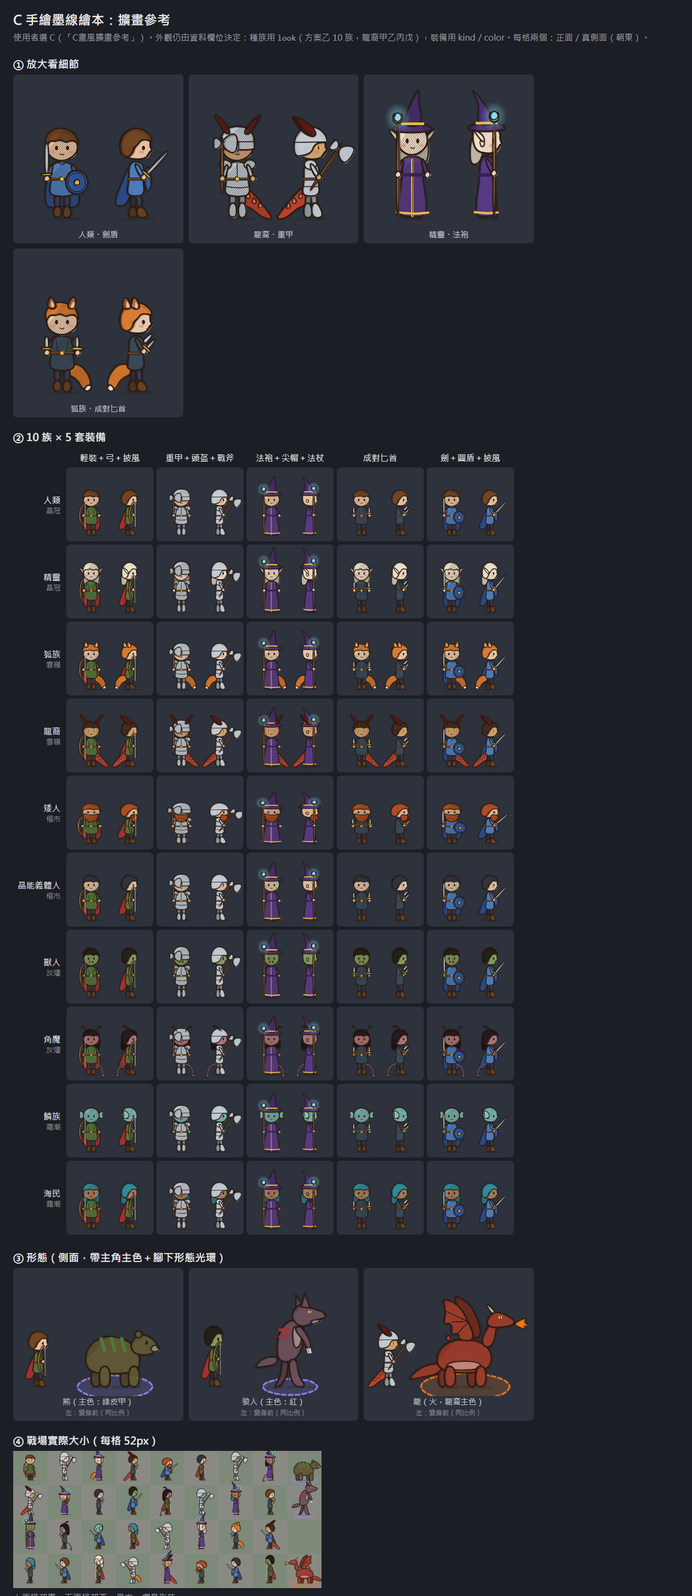
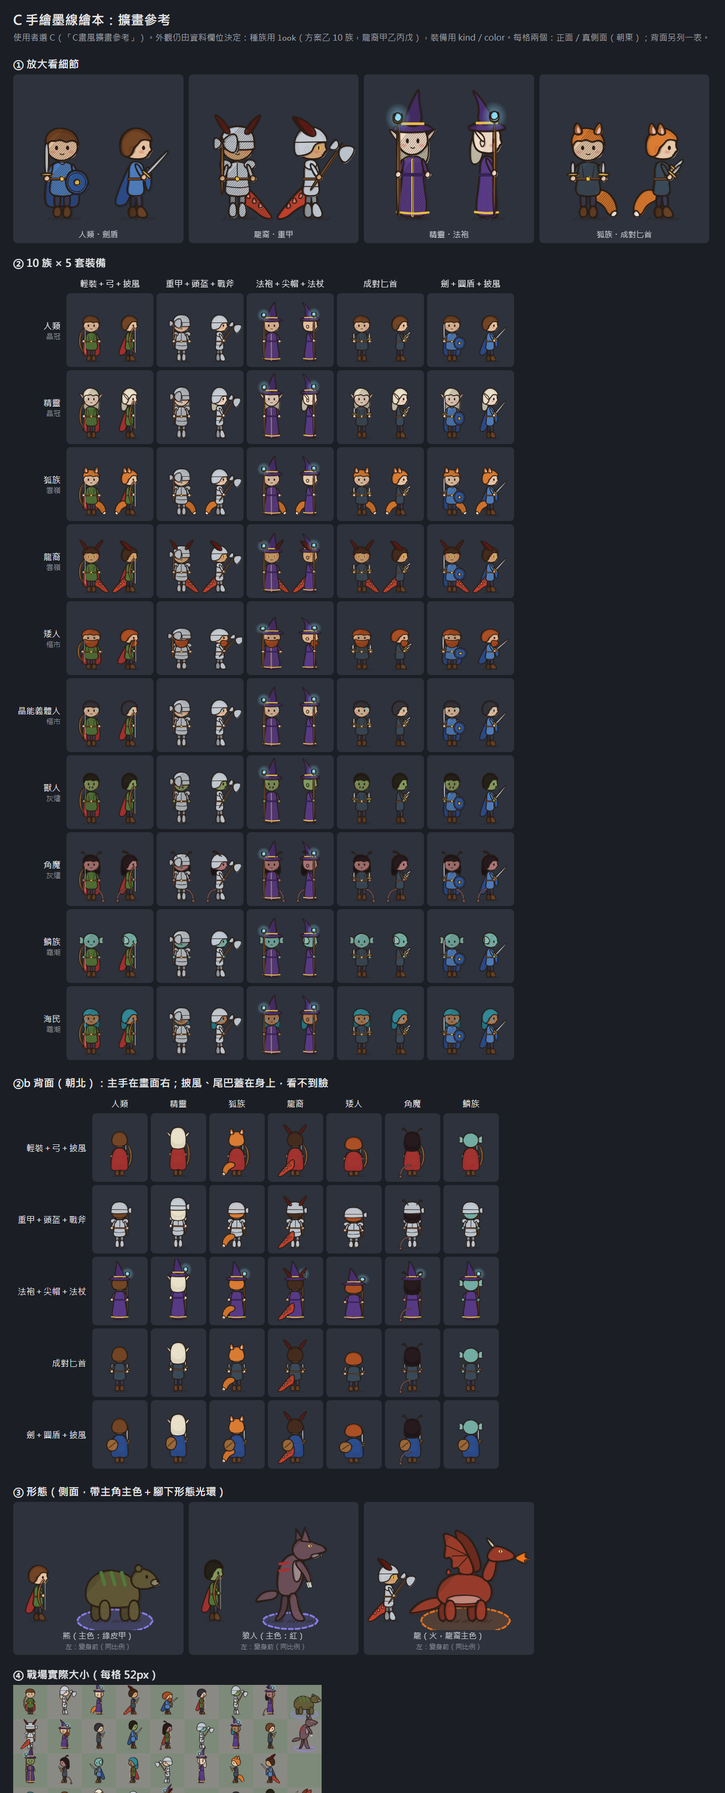
docs(art): style C port requirements and checklist; add back view to samples

diff --git a/docs/art/sample/storyDoll.js b/docs/art/sample/storyDoll.js
@@ -77,7 +77,7 @@ window.StoryDoll = (() => {
   // 正面：從腰側往畫面右邊伸出；側面：往身後（西）伸出。畫在身體之前（身體會蓋住根部）。
   function tail(ctx, look, view) {
     const k = look.tail; if (!k) return;
-    const s = view === "front" ? 1 : -1;
+    const s = view === "side" ? -1 : 1;
     const P = (pts) => pts.map(([x, y]) => [x * s, y]);
     if (k === "fox") {
       const c = look.tailColor ?? look.hairColor ?? "#d8762a";
@@ -105,7 +105,7 @@ window.StoryDoll = (() => {
     const { look, gear } = unit, pants = look.pants ?? "#3c3c52", boot = colorOf(gear.feet, "#6a4224");
     const heavy = gear.body?.kind === "plate";
     const greave = heavy ? MAT.steel : boot;
-    if (view === "front") {
+    if (view !== "side") {
       for (const sx of [-1, 1]) {
         ink(ctx, `leg-${sx}`, [[sx * 0.8, -15], [sx * 4.6, -15], [sx * 4.4, -6], [sx * 1, -6]], heavy ? MAT.iron : pants);
         ink(ctx, `boot-${sx}`, [[sx * 0.6, heavy ? -9 : -7], [sx * 4.8, heavy ? -9 : -7], [sx * 5.6, -0.8], [sx * 0.4, -0.4]], greave);
@@ -125,13 +125,15 @@ window.StoryDoll = (() => {
     front: [[-7, -33], [7, -33], [6, -23], [10, -1.6], [0, -0.6], [-10, -1.6], [-6, -23]],
     side: [[-4, -33], [3.4, -33], [5, -27], [4, -22], [7.4, -1.6], [-1, -0.8], [-7.6, -1.6], [-4.2, -22]],
   };
+  TORSO.back = TORSO.front; ROBE.back = ROBE.front;
   function body(ctx, unit, view) {
-    const it = unit.gear.body, kind = it?.kind ?? "shirt", F = view === "front";
+    const it = unit.gear.body, kind = it?.kind ?? "shirt", F = view !== "side", BK = view === "back";
     const c = colorOf(it, "#4f7fbf");
     if (kind === "robe") {
       ink(ctx, `robe-${view}`, ROBE[view], c);
       const trim = it.trim ?? MAT.gold;
-      if (F) {
+      if (BK) stroke(ctx, "robe-hem-b", [[-9.6, -3.2], [0, -2.2], [9.6, -3.2]], 1.2, trim);
+      else if (F) {
         stroke(ctx, "robe-mid", [[0, -31], [0, -1.4]], 1.4, trim); stroke(ctx, "robe-mid2", [[0, -31], [0, -1.4]], 0.4);
         stroke(ctx, "robe-hem", [[-9.6, -3.2], [0, -2.2], [9.6, -3.2]], 1.2, trim);
       } else {
@@ -142,8 +144,8 @@ window.StoryDoll = (() => {
     }
     ink(ctx, `torso-${view}`, TORSO[view], kind === "plate" ? MAT.steel : kind === "mail" ? MAT.iron : c);
     if (kind === "leather") {
-      stroke(ctx, `stitch-${view}`, F ? [[-3.6, -31], [-2.4, -24]] : [[0.6, -31], [1.6, -24]], 0.4);
-      if (F) stroke(ctx, "stitch2", [[3.6, -31], [2.4, -24]], 0.4);
+      if (!BK) stroke(ctx, `stitch-${view}`, F ? [[-3.6, -31], [-2.4, -24]] : [[0.6, -31], [1.6, -24]], 0.4);
+      if (F && !BK) stroke(ctx, "stitch2", [[3.6, -31], [2.4, -24]], 0.4);
     }
     if (kind === "plate") {
       if (F) {
@@ -154,17 +156,17 @@ window.StoryDoll = (() => {
         ink(ctx, "pauldron-s", ellPts(-0.4, -31.4, 3.8, 2.9, 12), MAT.steel, { w: 0.7 });
       }
     }
-    if (kind === "shirt" && F) stroke(ctx, "collar", [[-2.4, -33], [0, -30.4], [2.4, -33]], 0.5);
+    if (kind === "shirt" && F && !BK) stroke(ctx, "collar", [[-2.4, -33], [0, -30.4], [2.4, -33]], 0.5);
     // 腰帶
     const bx = F ? 6.2 : 4.3;
     stroke(ctx, `belt-${view}`, [[F ? -bx : -4.2, -23], [bx, -23]], 1.7, INK);
     stroke(ctx, `belt2-${view}`, [[F ? -bx : -4.2, -23], [bx, -23]], 0.9, "#6b4426");
-    if (F) { ctx.fillStyle = MAT.gold; ctx.fillRect(-1.2, -24.3, 2.4, 2.6); stroke(ctx, "buckle", [[-1.2, -24.3], [1.2, -24.3], [1.2, -21.7], [-1.2, -21.7], [-1.2, -24.3]], 0.4); }
+    if (F && !BK) { ctx.fillStyle = MAT.gold; ctx.fillRect(-1.2, -24.3, 2.4, 2.6); stroke(ctx, "buckle", [[-1.2, -24.3], [1.2, -24.3], [1.2, -21.7], [-1.2, -21.7], [-1.2, -24.3]], 0.4); }
   }
   function cloak(ctx, unit, view) {
     const it = unit.gear.cloak; if (!it) return;
     const c = colorOf(it, "#a83030");
-    if (view === "front") ink(ctx, "cloak-f", [[-8, -33], [8, -33], [11, -8], [5, -6], [0, -7.5], [-5, -6], [-11, -8]], c);
+    if (view !== "side") ink(ctx, `cloak-${view}`, [[-8, -33], [8, -33], [11, -8], [5, -6], [0, -7.5], [-5, -6], [-11, -8]], c);
     else ink(ctx, "cloak-s", [[-3, -33], [1, -33], [-4, -9], [-10, -6.5], [-13, -9], [-8, -22]], c);
   }
 
@@ -172,7 +174,7 @@ window.StoryDoll = (() => {
   // 主手：正面在畫面左手 (-9,-23.2)；側面在近側手 (4.6,-24)。
   function weapon(ctx, it, key, view, hand) {
     if (!it) return;
-    const [hx, hy] = hand, F = view === "front";
+    const [hx, hy] = hand, F = view !== "side";
     const metal = colorOf(it.material === "wood" ? null : it, MAT.steel);
     ctx.save(); ctx.translate(hx, hy);
     // 正面武器豎起；側面往前上斜（劍、斧、匕首）或直立（法杖、弓）
@@ -228,8 +230,8 @@ window.StoryDoll = (() => {
       if (behind) return;
       ctx.save(); ctx.scale(-1, 1); weapon(ctx, it, "off", view, [-9, -23.2]); ctx.restore();
     } else if (behind) {
-      weapon(ctx, it, "off-s", view, [2.6, -27]);
-      dot(ctx, 2.6, -27, 1.7, 1.7, dark(SKIN_LINE({}), 0.2));
+      weapon(ctx, it, "off-s", view, [5.6, -27]);
+      dot(ctx, 5.6, -27, 1.7, 1.7, dark(SKIN_LINE({}), 0.2));
     }
   }
 
@@ -243,7 +245,7 @@ window.StoryDoll = (() => {
   }
   function ears(ctx, look, view, stage) {
     const k = look.ears; if (!k) return;
-    const c = look.skin ?? "#eab48a", F = view === "front";
+    const c = look.skin ?? "#eab48a", F = view !== "side";
     if (k === "pointed" && stage === "under") {
       if (F) for (const sx of [-1, 1]) ink(ctx, `ear-p-${sx}`, [[sx * 8, -44], [sx * 15.6, -48.6], [sx * 9, -39.6]], c, { w: 0.7 });
     }
@@ -296,7 +298,7 @@ window.StoryDoll = (() => {
   }
   function horns(ctx, look, view) {
     const k = look.horns; if (!k) return;
-    const c = look.hornColor ?? "#e8d8b8", F = view === "front";
+    const c = look.hornColor ?? "#e8d8b8", F = view !== "side";
     const one = (key, s, far) => {
       const P = (pts) => pts.map(([x, y]) => [x * s, y]);
       const col = far ? dark(c, 0.25) : c;
@@ -311,19 +313,20 @@ window.StoryDoll = (() => {
   const COVERS = { helmet: { top: true, side: true }, hood: { top: true, side: true }, wizard_hat: { top: true } };
   function headgear(ctx, it, view) {
     if (!it) return;
-    const F = view === "front", c = colorOf(it, "#7a5a3a");
+    const F = view !== "side", BK = view === "back", c = colorOf(it, "#7a5a3a");
     if (it.kind === "helmet") {
       const m = colorOf(it, MAT.steel);
       if (F) {
         ink(ctx, "helm", [[-10, -42], [-9.6, -49], [-4.6, -53.6], [4.6, -53.6], [9.6, -49], [10, -42], [10.4, -40], [-10.4, -40]], m);
         stroke(ctx, "helm-band", [[-10, -44.6], [10, -44.6]], 0.6);
-        ink(ctx, "helm-nose", [[-0.9, -45], [0.9, -45], [0.7, -38.6], [-0.7, -38.6]], m, { shade: false, w: 0.5 });
+        if (!BK) ink(ctx, "helm-nose", [[-0.9, -45], [0.9, -45], [0.7, -38.6], [-0.7, -38.6]], m, { shade: false, w: 0.5 });
       } else {
         ink(ctx, "helm-s", [[-9.8, -36], [-10, -47], [-4.6, -53.6], [3.6, -53.4], [8.8, -48.6], [9.6, -44], [6, -44.4], [2, -43], [0.4, -38.6], [-4, -36.4]], m);
         stroke(ctx, "helm-band-s", [[-9.8, -44.4], [9.4, -44.6]], 0.6);
       }
     } else if (it.kind === "hood") {
-      if (F) ink(ctx, "hood", [[-11, -36], [-11.4, -48], [-5, -55], [5, -55], [11.4, -48], [11, -36], [7.6, -36.6], [8.4, -45], [0, -48], [-8.4, -45], [-7.6, -36.6]], c);
+      if (BK) ink(ctx, "hood-b", [[-11, -36], [-11.4, -48], [-5, -55], [5, -55], [11.4, -48], [11, -36], [6, -33], [-6, -33]], c);
+      else if (F) ink(ctx, "hood", [[-11, -36], [-11.4, -48], [-5, -55], [5, -55], [11.4, -48], [11, -36], [7.6, -36.6], [8.4, -45], [0, -48], [-8.4, -45], [-7.6, -36.6]], c);
       else ink(ctx, "hood-s", [[-11, -33], [-11.4, -46], [-5, -55], [4, -54.4], [9.6, -48.6], [9.4, -45], [4, -46.6], [0.6, -42], [-1.6, -36], [-6, -33.4]], c);
     } else if (it.kind === "wizard_hat") {
       if (F) {
@@ -344,8 +347,37 @@ window.StoryDoll = (() => {
     ink(ctx, `arm-${sx}`, sx < 0 ? [[-7, -31.5], [-4.8, -31], [-7.4, -22.5], [-9.8, -23.5]] : [[7, -31.5], [4.8, -31], [7.4, -22.5], [9.8, -23.5]], c);
   }
   function hand(ctx, look, x, y, key) { ink(ctx, key, ellPts(x, y, 1.8, 1.8, 10), look.skin ?? "#eab48a", { shade: false, w: 0.6 }); }
+  // 背面（朝北）：左右對調（主手在畫面右），看不到臉；披風、尾巴蓋在身體上，武器在身體後面
+  function drawBack(ctx, unit) {
+    const look = unit.look ?? {}, gear = unit.gear ?? {}, V = "back";
+    const cover = COVERS[gear.head?.kind] ?? (gear.head ? { top: true } : {});
+    ctx.scale(-1, 1);
+    weapon(ctx, gear.main_hand, "main-b", V, [-9, -23.2]);
+    const off = gear.off_hand, shield = off && off.kind.startsWith("shield");
+    if (off && !shield) { ctx.save(); ctx.scale(-1, 1); weapon(ctx, off, "off-b", V, [-9, -23.2]); ctx.restore(); }
+    legs(ctx, unit, V);
+    body(ctx, unit, V);
+    armFront(ctx, unit, -1); armFront(ctx, unit, 1);
+    hand(ctx, look, -9, -23.2, "hand-bl"); hand(ctx, look, 9, -23.2, "hand-br");
+    cloak(ctx, unit, V);
+    tail(ctx, look, V);
+    if (shield) {
+      ink(ctx, "shield-b", ellPts(8.6, -21, 6.6, 7, 20), MAT.wood, { w: 1 });
+      stroke(ctx, "shield-strap", [[5, -24], [12.2, -18]], 1.2, "#5a3a1e");
+    }
+    if (!cover.side) ears(ctx, look, V, "under");
+    ink(ctx, "head-b", ellPts(0, -42, 9.2, 8.6), look.skin ?? "#eab48a", { w: 1 });
+    if (look.hair && look.hair !== "none") { // 背面：帽子只蓋頭頂，後腦頭髮照畫
+      const c = look.hairColor ?? "#6a3a1e";
+      ink(ctx, "hair-b", look.hair === "long" ? [[-9.8, -44], [-6, -51.8], [6, -51.8], [9.8, -44], [9.6, -30], [0, -28.6], [-9.6, -30]] : [[-9.6, -42], [-6, -51.8], [6, -51.8], [9.6, -42], [8, -36], [0, -34.4], [-8, -36]], c);
+    }
+    if (!cover.top) ears(ctx, look, V, "top");
+    headgear(ctx, gear.head, V);
+    horns(ctx, look, V);
+  }
   function draw(ctx, unit, view) {
     const look = unit.look ?? {}, gear = unit.gear ?? {}, F = view === "front";
+    if (view === "back") { SHADE = -1; ctx.save(); if (look.build === "stout") ctx.scale(1.12, 0.88); else if (look.build === "tall") ctx.scale(0.96, 1.1); shadow(ctx); drawBack(ctx, unit); ctx.restore(); return; }
     SHADE = F ? 1 : -1;
     ctx.save();
     if (look.build === "stout") ctx.scale(1.12, 0.88); else if (look.build === "tall") ctx.scale(0.96, 1.1);

diff --git a/docs/art/sample/story.html b/docs/art/sample/story.html
@@ -20,13 +20,16 @@
 </head>
 <body>
 <h1>C 手繪墨線繪本：擴畫參考</h1>
-<div class="sub">使用者選 C（「C畫風擴畫參考」）。外觀仍由資料欄位決定：種族用 <code>look</code>（方案乙 10 族，龍裔甲乙丙戊），裝備用 kind／color。每格兩個：正面／真側面（朝東）。</div>
+<div class="sub">使用者選 C（「C畫風擴畫參考」）。外觀仍由資料欄位決定：種族用 <code>look</code>（方案乙 10 族，龍裔甲乙丙戊），裝備用 kind／color。每格兩個：正面／真側面（朝東）；背面另列一表。</div>
 
 <h2>① 放大看細節</h2>
 <div class="row" id="big"></div>
 
 <h2>② 10 族 × 5 套裝備</h2>
 <table id="grid"></table>
+
+<h2>②b 背面（朝北）：主手在畫面右；披風、尾巴蓋在身上，看不到臉</h2>
+<table id="back"></table>
 
 <h2>③ 形態（側面，帶主角主色＋腳下形態光環）</h2>
 <div class="row" id="forms"></div>
@@ -88,6 +91,15 @@ RACES.forEach(([zh, realm, lk]) => {
   }
   grid.append(tr);
 });
+// ②b 背面
+const back = document.getElementById("back"), BACK_RACES = [0, 1, 2, 3, 4, 7, 8];
+back.insertAdjacentHTML("beforeend", `<tr><th></th>${BACK_RACES.map((i) => `<th>${RACES[i][0]}</th>`).join("")}</tr>`);
+SETS.forEach(([t, g]) => {
+  const tr = document.createElement("tr");
+  tr.insertAdjacentHTML("beforeend", `<td class="lab">${t}</td>`);
+  for (const ri of BACK_RACES) { const td = document.createElement("td"); const [c, ctx] = cv(80, 100); SD.stamp(ctx, { look: look(ri), gear: g }, "back", 40, 93, 1.3); td.append(c); tr.append(td); }
+  back.append(tr);
+});
 // ③ 形態
 const forms = document.getElementById("forms");
 const FORM_SHOW = [["bear", { hero: "#4f7a3a", auraColor: "#9a86ff", auraR: 22 }, "熊（主色：綠皮甲）", 0, 0],
@@ -106,7 +118,7 @@ const [fc, fctx] = cv(T * COLS, T * ROWS, null);
 for (let y = 0; y < ROWS; y++) for (let x = 0; x < COLS; x++) { fctx.fillStyle = (x + y) % 2 ? "#8a8a84" : "#7d8a7a"; fctx.fillRect(x * T, y * T, T, T); }
 for (let y = 0; y < ROWS; y++) for (let x = 0; x < COLS - 1; x++) {
   const ri = (x + y * 3) % RACES.length, si = (x + y) % SETS.length, west = y >= 2;
-  const view = x === 0 && y % 2 === 0 ? "front" : "side";
+  const view = x === 0 ? (y % 2 ? "back" : "front") : "side";
   SD.stamp(fctx, { look: look(ri), gear: gear(si) }, view, x * T + T / 2, y * T + T * 0.86, 0.74, view === "side" && west);
 }
 FORM_SHOW.slice(0, 3).forEach(([id, spec], i) => SD.stampForm(fctx, id, spec, (COLS - 1) * T + T / 2, i * T + T * 0.86 + (i === 2 ? T : 0), id === "dragon" ? 0.82 : 0.95, i === 2));

diff --git a/docs/art/C畫風移植需求.md b/docs/art/C畫風移植需求.md
@@ -1,0 +1,108 @@
+# C 手繪墨線繪本：移植需求與檢查清單（美術 PM，2026-10-29，交開發 PM）
+
+> 使用者：「幫我問美術 紙娃娃能不能改畫風格 不是小改是大改 先給我幾張樣本」→ 選 C：「C畫風擴畫參考」→ 看過擴畫：「好就這樣」。
+> 樣張：`story.png`（頁面 `sample/story.html`）；**畫法以 `sample/storyDoll.js` 為準**（實作時對照它的座標與圖層順序）。比較與評估見 `紙娃娃畫風大改.md`。
+
+## 0. 原則：換畫法，不換規則
+
+- 規則全部不動：`look` 欄位（含 3R 種族欄位）、裝備 `kind／material／color／element／rarity`、頭部裝備 `covers`、主手／副手左右（`handSides`）、真側面轉身（`SideHooks`）、形態規則（`形態外觀.md` 定稿方向）、材質色票、元素混色比例。**不認得的值一律退回預設，不得出錯**。
+- 要換的只有「把欄位畫出來」的程式：`client/src/render/paperdoll*.ts`、`dollGear.ts`、形態（3J-5），以及第 6 節的召喚物（待定）。
+- 只看規則的測試照舊要過；比對像素或顏色的測試照新畫法更新。
+- **不受影響**：技能圖示、裝備圖示、狀態圖示、戰場效果、地形、物件、雲嶺換皮、字型。
+
+## 1. 共用畫法層（新檔，例如 `render/inkStyle.ts`）
+
+照 `storyDoll.js` 開頭的「畫法層」：
+
+| 函式 | 做什麼 |
+|---|---|
+| `ink(ctx, key, pts, color, opt)` | ① 水彩填色：往右下偏 (0.45, 0.35)、透明度 0.94、邊緣再描一圈 35% 深色 ② 暗面斜排線（裁在形狀內，線寬 0.35、間距 1.3、42% 墨色）③ 墨線描兩次（線寬 w＝0.85 與 0.45w，抖動 0.5／0.85）。`opt`：`w`、`shade:false`（不排線）、`line:false`、`sharp`（尖角形狀不圓滑化）、`alpha` |
+| `stroke(ctx, key, pts, w, color)` | 開放的抖動線（腰帶、縫線、嘴、骨架線） |
+| `ellPts`、`wobble`、`smooth` | 橢圓取點、抖動、用中點二次曲線圓滑化 |
+
+- **確定性**：抖動的亂數種子＝部件名稱字串的 FNV-1a 雜湊（`seedOf(key)`），再用 LCG。**不准用 `Math.random()`**，否則每次重畫線都會跳。同一部件在不同方向用不同 key（例如 `leg-1`、`leg-far`）。
+- **暗面方向**：正面在右（光從左上）；側面、背面在左。
+- 墨色 `#2b1e16`。**拿掉現在的黑色剪影外框**（8 方向偏移的深色剪影），墨線取代它。頭目外光照舊，是唯一的身體外光。
+- **一定要快取成貼圖**：一隻小人要描很多次線又要裁切排線，每幀重畫太貴。現有 `renderFigureCanvas` 的快取鍵（spec＋facing＋downed）沿用。
+- 地面影子改成一排短斜線（`shadow()`），不是深色橢圓。
+
+## 2. 紙娃娃骨架與四方向
+
+座標（腳底 (0,0)，往上是 −y）：頭 (0,−42) 半徑 9.2×8.6；身體 −33～−12.5；腿 −15～0；手在 (±9,−23.2)。頭頂最高到約 −70（尖帽），畫布高度要留夠（現在的 `DOLL_H` 64 不夠）。**戰場縮放**：52px 格用約 0.74 倍，人約 40px 高，和現在一樣。
+
+| 方向 | 圖層順序（下 → 上） | 重點 |
+|---|---|---|
+| 正面（南） | 影子 → 披風 → 尾巴 → 長髮後片 → 腿 → 身體 → 副手臂＋副手 → 耳（側耳）→ 頭 → 臉 → 頭髮 → 耳（獸耳）→ 頭部裝備 → 角 → 主手臂＋武器＋手 | 主手在畫面左 |
+| 側面（東） | 影子 → 披風 → 尾巴（往西）→ 長髮後片 → 遠側手武器 → 遠腿 → 近腿 → 身體 → 盾（側看一條邊）→ 頭（側臉）→ 耳點 → 臉 → 頭髮 → 耳 → 頭部裝備 → 角（遠側暗 25%，近側往前 2.2）→ 近側手臂＋武器＋手 | 西＝左右鏡像 |
+| 背面（北） | 先左右對調（主手到畫面右）→ 影子 → 武器（在身體後）→ 腿 → 身體 → 兩手 → 披風 → 尾巴（蓋在披風上）→ 盾背面（木色＋皮帶）→ 側耳 → 頭 → 後腦頭髮（**戴帽也畫**，帽子只蓋頭頂）→ 獸耳 → 頭部裝備 → 角 | 看不到臉、扣環、縫線 |
+
+體型：`stout` 整個人 ×(1.12, 0.88)，`tall` ×(0.96, 1.1)（四方向都要）。倒地姿勢照現行做法旋轉。
+
+## 3. 9 格裝備
+
+樣張畫了：身體 `shirt`／`leather`／`plate`／`robe`、頭 `helmet`／`hood`／`wizard_hat`、腳 `boots`／`greaves`、披風、圓盾。
+其他 kind（`mail`、各種外套、`greathelm`、`horned_helm`、`cap`、`bandana`、`crown`、`wide_hat`、手套、臂甲、塔盾⋯⋯）：**沿用現行造型的輪廓，改用 `ink()` 畫**，細節線（甲片、縫線）改成 `stroke()`。顏色照現行 `itemColors()`。項鍊、戒指照舊不畫。
+
+## 4. 武器（含 #34、魔導劍、成對武器）
+
+- 握點：正面主手 (−9,−23.2) 豎起；側面近側手 (4.6,−24)，劍、斧、匕首往前上斜 0.75 rad，法杖、弓直立。
+- 樣張畫了 `sword`、`dagger`、`axe`、`staff`（杖頭光暈用元素色，預設 `#8fe3ff`）、`bow`；其他 kind（錘、矛、拳套、鐮刀、鞭、手槍、霰彈槍、法球、弩、圖騰杖、魔導劍）：沿用現行造型＋`ink()`，握法不變。
+- **成對武器**：正面副手＝主手武器左右鏡像，在畫面右手；側面副手在遠側手 **(5.6,−27)**，畫在身體後面，比近側手**往前上錯開約 3px**（即 3R-3a 原定的小修，一起做掉）；背面兩把都在身體後面。
+
+## 5. 種族（3R-3a／3R-3b）與形態（3J-5）
+
+**種族**：欄位、10 族資料與龍裔定案版照 `種族與側面移植需求.md` ①。**衝突規則以 `可玩種族評估.md` 第 2 節為準**（例如精靈戴頭盔時尖耳伸出、狐族戴兜帽用有耳朵的兜帽、寬帽遇角要抬高）；樣張為了省事有些組合簡化，不算數。部件位置與形狀照 `storyDoll.js` 的 `tail`、`ears`、`horns`、`face`（鱗片、刺青、晶路、獠牙、鬍子、豎瞳）。
+- 3R-3a：耳、角、尾、膚色、衝突規則＋成對武器錯開（第 4 節）。
+- 3R-3b：體型、臉部紋路、鬍子、獠牙、龍裔部件（大龍角、龍鱗、豎瞳、粗龍尾＋背刺、鱗色）。
+
+**形態 10 種**：規則照 `形態外觀.md` 定稿方向（全部另畫、帶主角主色、比同類召喚物大一號、不認得的 id 退回原角色＋光環）。
+- 樣張畫了熊、狼人、龍（`storyDoll.js` 的 `FORMS`）；其他 7 種（貓、鳥、惡魔、巨人、元素化身、暗影、樹人）**用 `formArt.js` 的輪廓＋`ink()` 畫**。實作者如果需要，美術 PM 可以先補這 7 種的樣張。
+- 形態光環改成手繪：元素色虛線橢圓（線寬 1.1、虛線 2.4／1.6）＋18% 同色填色。
+
+## 6. 召喚物（獨立一節，等使用者確認要不要做）
+
+- 17 種的規則照 `召喚物外觀.md`（體型 × 元素 × 大小 × 特徵），輪廓沿用 `summonArt.ts`，改用 `ink()` 畫，拿掉黑色剪影外框，光環與影子同第 1、5 節。
+- 人形召喚物本來就用紙娃娃，第 2～4 節做完就會自動換畫風。
+- 約 1 段。不做的話，非人形召喚物維持現行畫風（和 C 有落差，但不影響玩法）。
+
+## 7. 建議分段
+
+| 段 | 內容 | 估計 |
+|---|---|---|
+| C-1 | 畫法層、四方向骨架、樣張畫過的裝備與武器（布、皮、板、袍、頭盔、兜帽、尖帽、靴、脛甲、披風、圓盾、劍、匕首、斧、法杖、弓）、拿掉剪影外框、快取 | 約 1.5 |
+| C-2 | 其餘裝備 kind 與武器（含 #34、魔導劍、成對武器的正面與背面） | 約 1～1.5 |
+| 3J-5 | 形態 10 種直接用 C 畫（原估 1～1.2 段，不另加） | — |
+| 3R-3a／b | 種族直接用 C 畫（原估約 1 段，不另加） | — |
+| C-3（待定） | 召喚物 17 種 | 約 1 |
+
+**C-1、C-2 要排在 3J-5、3R-3 的外觀部分之前**，避免先用舊畫風做完又重畫。3J、3R 的規則與流程部分不受影響，可以照常先做。
+
+## 檢查清單（驗收時美術 PM 用原尺寸重拍 `doll-gallery`／實戰）
+
+畫法：
+- [ ] 墨線兩層、水彩溢色、暗面排線都有；正面暗面在右，側面、背面在左
+- [ ] 同一隻小人重畫（換場景、重開頁面）線條完全一樣，不閃
+- [ ] 沒有黑色剪影外框；頭目外光仍在；地面影子是斜線
+- [ ] 52px 格：人約 40px 高，臉、耳、角、尾、武器分得出
+- [ ] 效能：滿場 20 隻小人移動時不掉幀（有用快取）
+
+四方向：
+- [ ] 正、側、背、西（鏡像）圖層順序照第 2 節；背面主手在畫面右、看不到臉
+- [ ] 背面戴帽時後腦頭髮仍在；披風、尾巴蓋在身上
+- [ ] 體型 stout／tall 四方向都套用；倒地姿勢正常
+
+裝備與武器：
+- [ ] 9 格所有現行 kind 都有 C 版，沒有漏回舊畫法或空白
+- [ ] 不認得的 kind、材質、顏色、元素 → 預設外觀，不報錯（`gear-all` 全組合自測）
+- [ ] 所有武器 kind 正、側、背都握在手上；成對武器側面遠側往前上錯開約 3px、不和近側重疊
+- [ ] 盾：正面圓面、側面一條邊、背面木色＋皮帶
+
+種族（3R-3）：
+- [ ] 10 族四方向都對，龍裔是定案版
+- [ ] 衝突規則照 `可玩種族評估.md` 第 2 節（尖耳＋頭盔、獸耳＋兜帽、角＋寬帽、尾巴＋長袍、角魔＋披風背面）
+
+形態（3J-5）：
+- [ ] 10 種都有 C 版；主色、大一號、手繪光環；不認得的 id 退回原角色＋光環
+
+召喚物（C-3，做的話）：
+- [ ] 17 種都改成 C 版、沒有黑色剪影外框；新 `trait` 不認得時退回預設

diff --git a/docs/美術PM交接.md b/docs/美術PM交接.md
@@ -60,6 +60,7 @@
 | 魔導劍（#46） | 10-24 樣張完成、交開發 PM（第二批武器） | `魔導劍.md`、`arcane-blade.png` |
 | 形態外觀（#48，第一批 10 種：熊、貓、鳥、惡魔、巨人、元素化身、暗影、樹人、狼人、龍） | 全部另畫、帶主角主色、比召喚物大一號＋形態光環；樣張定稿交開發 PM（排在 3J，尚未實作） | `形態外觀.md` 最後一節「定稿方向」、`forms10.png`、`sample/formArt.js` |
 | 可玩種族外觀（方案乙，10 族，龍裔甲乙丙戊）＋真側面 A | 使用者 10-24 確認；**真側面 3S-1／3S-2／3S-3 完成並驗收**；種族 3R-3a（耳／角／尾／膚色／衝突，含成對武器遠側錯開小修）、3R-3b（體型／紋路／鬍子／獠牙／龍裔）待做 | `種族與側面移植需求.md`、`可玩種族評估.md`、`側面畫法.md`、`3S-1～3檢查.md`、`races.png`、`races-side.png`、`dragonkin.png` |
+| **紙娃娃畫風大改：C 手繪墨線繪本** | 使用者 10-29 選 C（「C畫風擴畫參考」「好就這樣」）；移植需求交開發 PM，C-1、C-2 排在 3J-5／3R-3 外觀之前；召喚物（C-3）待使用者確認 | `紙娃娃畫風大改.md`、`C畫風移植需求.md`、`story.png`、`restyle.png`、`sample/storyDoll.js` |
 | 字型 Noto Sans TC（400、700） | 3-35 完成 | — |
 | 組裝式裝備外觀：9 格全部造型，通用版 | 使用者採用（命名選 A），G5a 圖示／G5b 紙娃娃／G5c 小修 | `組裝式裝備.md`、`裝備外觀移植需求.md`、`3G-5a檢查.md`、`3G-5b檢查.md`、`gear-all.png` |
 | 武器擴充 #34 的造型（弩、槍、拳套、鐮刀、鞭、成對武器、圖騰杖） | 已併進裝備外觀 | `組裝式裝備.md`「武器擴充」、`weapons-34.png` |
@@ -77,6 +78,7 @@
 
 | 項目 | 何時 | 說明 |
 |---|---|---|
+| C 畫風 C-1／C-2 驗收（形態、種族也改用 C 畫） | 開發做完後 | 照 `C畫風移植需求.md` 檢查清單；7 種形態樣張可視需要補畫 |
 | 3R-3a、3R-3b 種族外觀驗收 | 開發 PM 做完後（規格 `docs/phases/Phase3R計畫.md`；3R-3a 另含成對武器遠側往前上錯開約 3px 的小修） | 照 `種族與側面移植需求.md` 檢查清單；直接用真側面掛鉤 `SideHooks.race` |
 | 形態 10 種：待移植、再驗收 | 3J 做完後（規格 `docs/phases/Phase3J計畫.md`） | 照 `形態外觀.md` 定稿方向 |
 | 魔導劍 | 已在 3I 實作（`client/src/render/arcaneBlade.test.ts`）；側面版在 3S-3 截圖看過 OK | 正面、背面與裝備圖示還沒正式驗收：開 `doll-gallery` 看一眼，照 `魔導劍.md` 檢查清單 |
